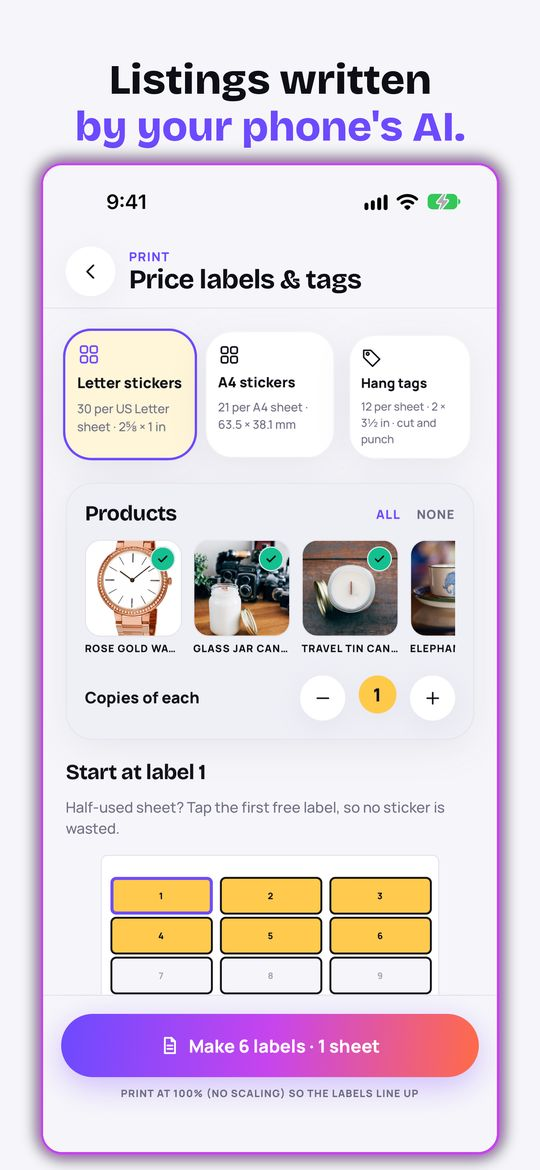
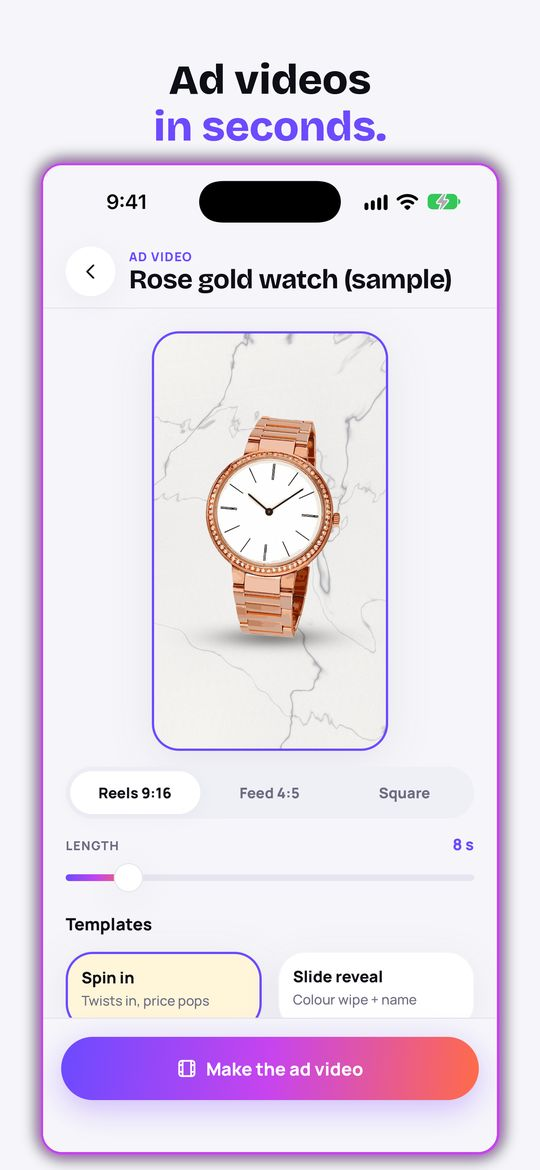
Startell Media invite page (/join/): opens training-partner and challenge links in the app, store buttons otherwise

diff --git a/join/index.html b/join/index.html
@@ -1,0 +1,43 @@
+<!doctype html><html lang="en"><head><meta charset="utf-8"><meta name="viewport" content="width=device-width,initial-scale=1">
+<title>Join me on Startell Media</title>
+<meta name="robots" content="noindex">
+<meta name="description" content="A training partner or a friendly challenge on Startell Media, the camera coach for creators.">
+<link rel="preconnect" href="https://fonts.googleapis.com"><link href="https://fonts.googleapis.com/css2?family=Unbounded:wght@600&family=Plus+Jakarta+Sans:wght@500;700&display=swap" rel="stylesheet">
+<style>
+:root{--bg:#0B0B10;--card:#16161E;--ink:#F6F3EE;--muted:rgba(246,243,238,.68);--acc:#E9B44C;--line:rgba(255,255,255,.1)}
+*{box-sizing:border-box}body{margin:0;background:var(--bg);color:var(--ink);font:16px/1.55 'Plus Jakarta Sans',system-ui,sans-serif;min-height:100vh;display:flex;align-items:center;justify-content:center;padding:24px 16px}
+main{max-width:440px;width:100%;text-align:center}
+h1{font:600 26px/1.25 Unbounded,system-ui,sans-serif;margin:18px 0 10px;text-wrap:balance}
+p{color:var(--muted);margin:0 0 18px}
+.star{width:72px;height:72px;margin:0 auto;border-radius:18px;background:radial-gradient(circle at 30% 25%,#3a2a12,#0d0b08);display:grid;place-items:center;font-size:38px;color:var(--acc)}
+a.btn{display:block;padding:15px 18px;border-radius:14px;font-weight:700;text-decoration:none;margin:10px 0}
+a.primary{background:linear-gradient(120deg,#F2D79A,#E9B44C,#B07A2A);color:#1A1206}
+a.store{border:1px solid var(--line);color:var(--ink);background:var(--card)}
+.fine{font-size:13px;margin-top:20px}
+</style></head><body><main>
+<div class="star" aria-hidden="true">★</div>
+<h1 id="title">Join me on Startell Media</h1>
+<p id="lead">A camera coach for creators: short drills, a coach after every take, and your STAR score.</p>
+<a class="btn primary" id="open" href="#">Open in Startell Media</a>
+<a class="btn store" href="https://apps.apple.com/app/id1447417033">Get it on the App Store</a>
+<a class="btn store" href="https://play.google.com/store/apps/details?id=com.starbox.android">Get it on Google Play</a>
+<p class="fine">Install the app, then come back to this page and tap "Open in Startell Media". Only nicknames and scores are shared between partners, never videos.</p>
+</main>
+<script>
+// ?f=CODE&n=NAME (training partner) or ?d=ID (challenge): hand the link to the app when it is installed
+var q = new URLSearchParams(location.search), app = null;
+var ok = function (s) { return /^[A-Za-z0-9]{24,64}$/.test(s || ''); };
+if (ok(q.get('f'))) {
+  var n = (q.get('n') || 'A friend').slice(0, 20);
+  document.getElementById('title').textContent = n + ' wants to train with you';
+  document.getElementById('lead').textContent = 'Add ' + n + ' as a training partner on Startell Media and see each other’s progress.';
+  app = 'startell://friend?c=' + q.get('f') + '&n=' + encodeURIComponent(n);
+} else if (ok(q.get('d'))) {
+  document.getElementById('title').textContent = 'You have been challenged';
+  document.getElementById('lead').textContent = 'Same drill, same rules. Film yours in Startell Media and see who scores higher.';
+  app = 'startell://duel?d=' + q.get('d');
+}
+var btn = document.getElementById('open');
+if (app) { btn.href = app; setTimeout(function () { location.href = app; }, 300); } else { btn.style.display = 'none'; }
+</script>
+</body></html>
